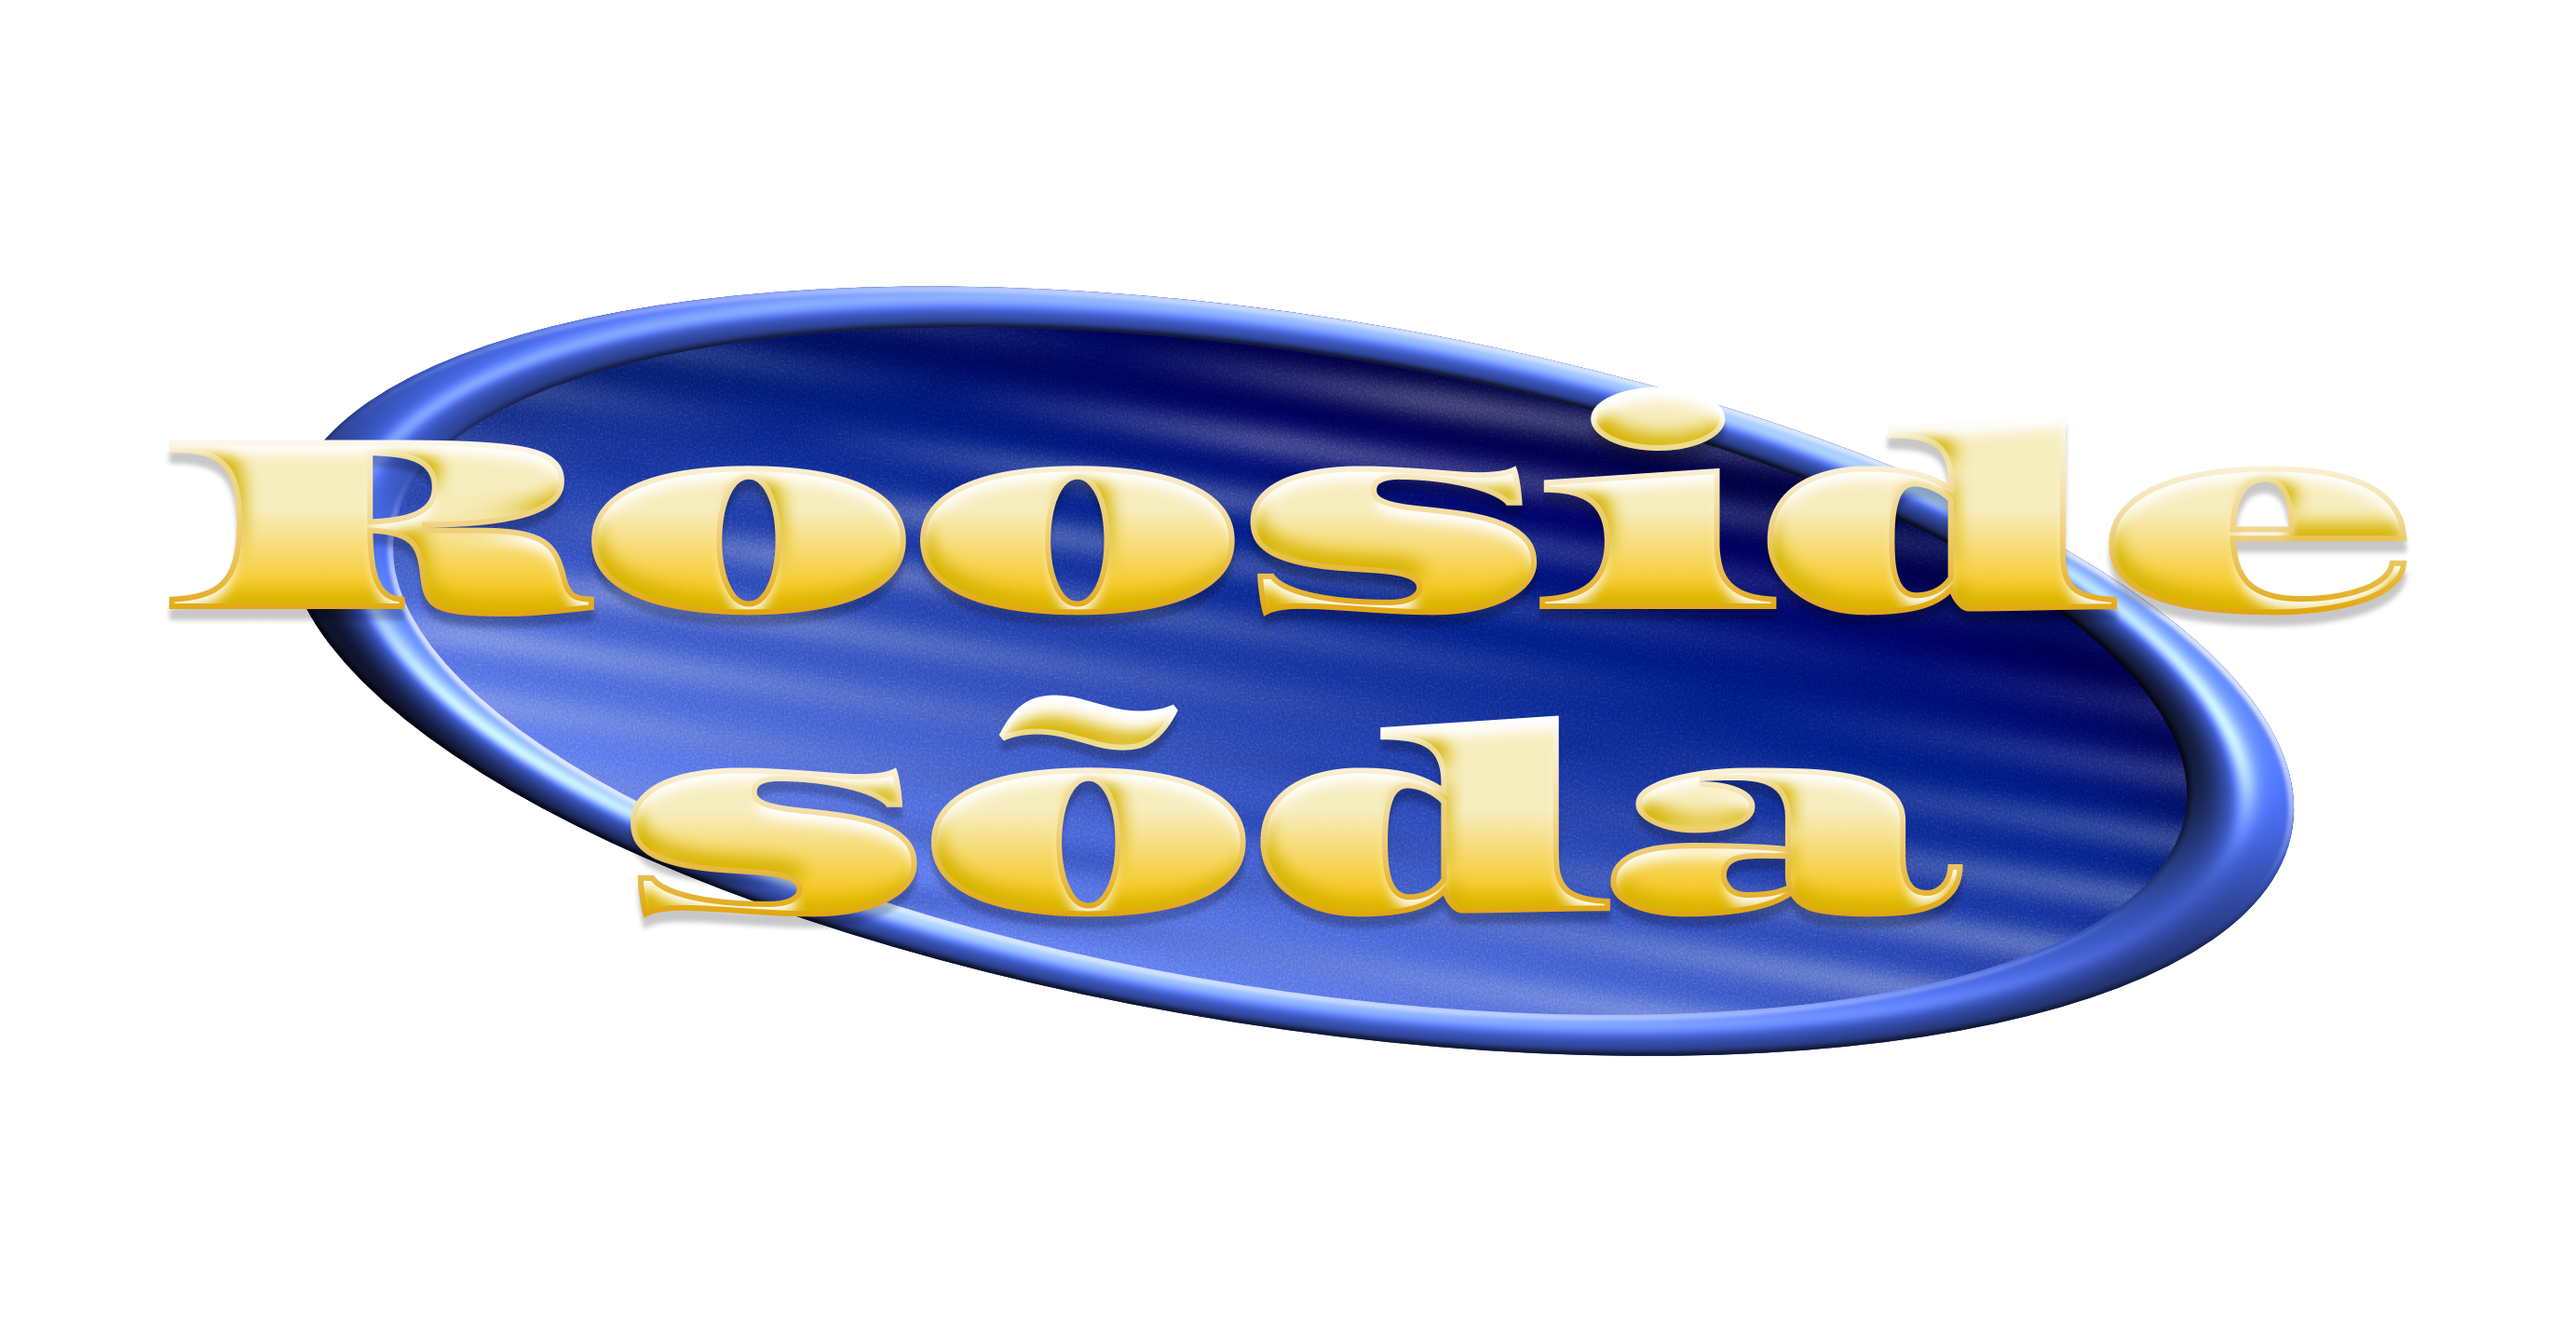
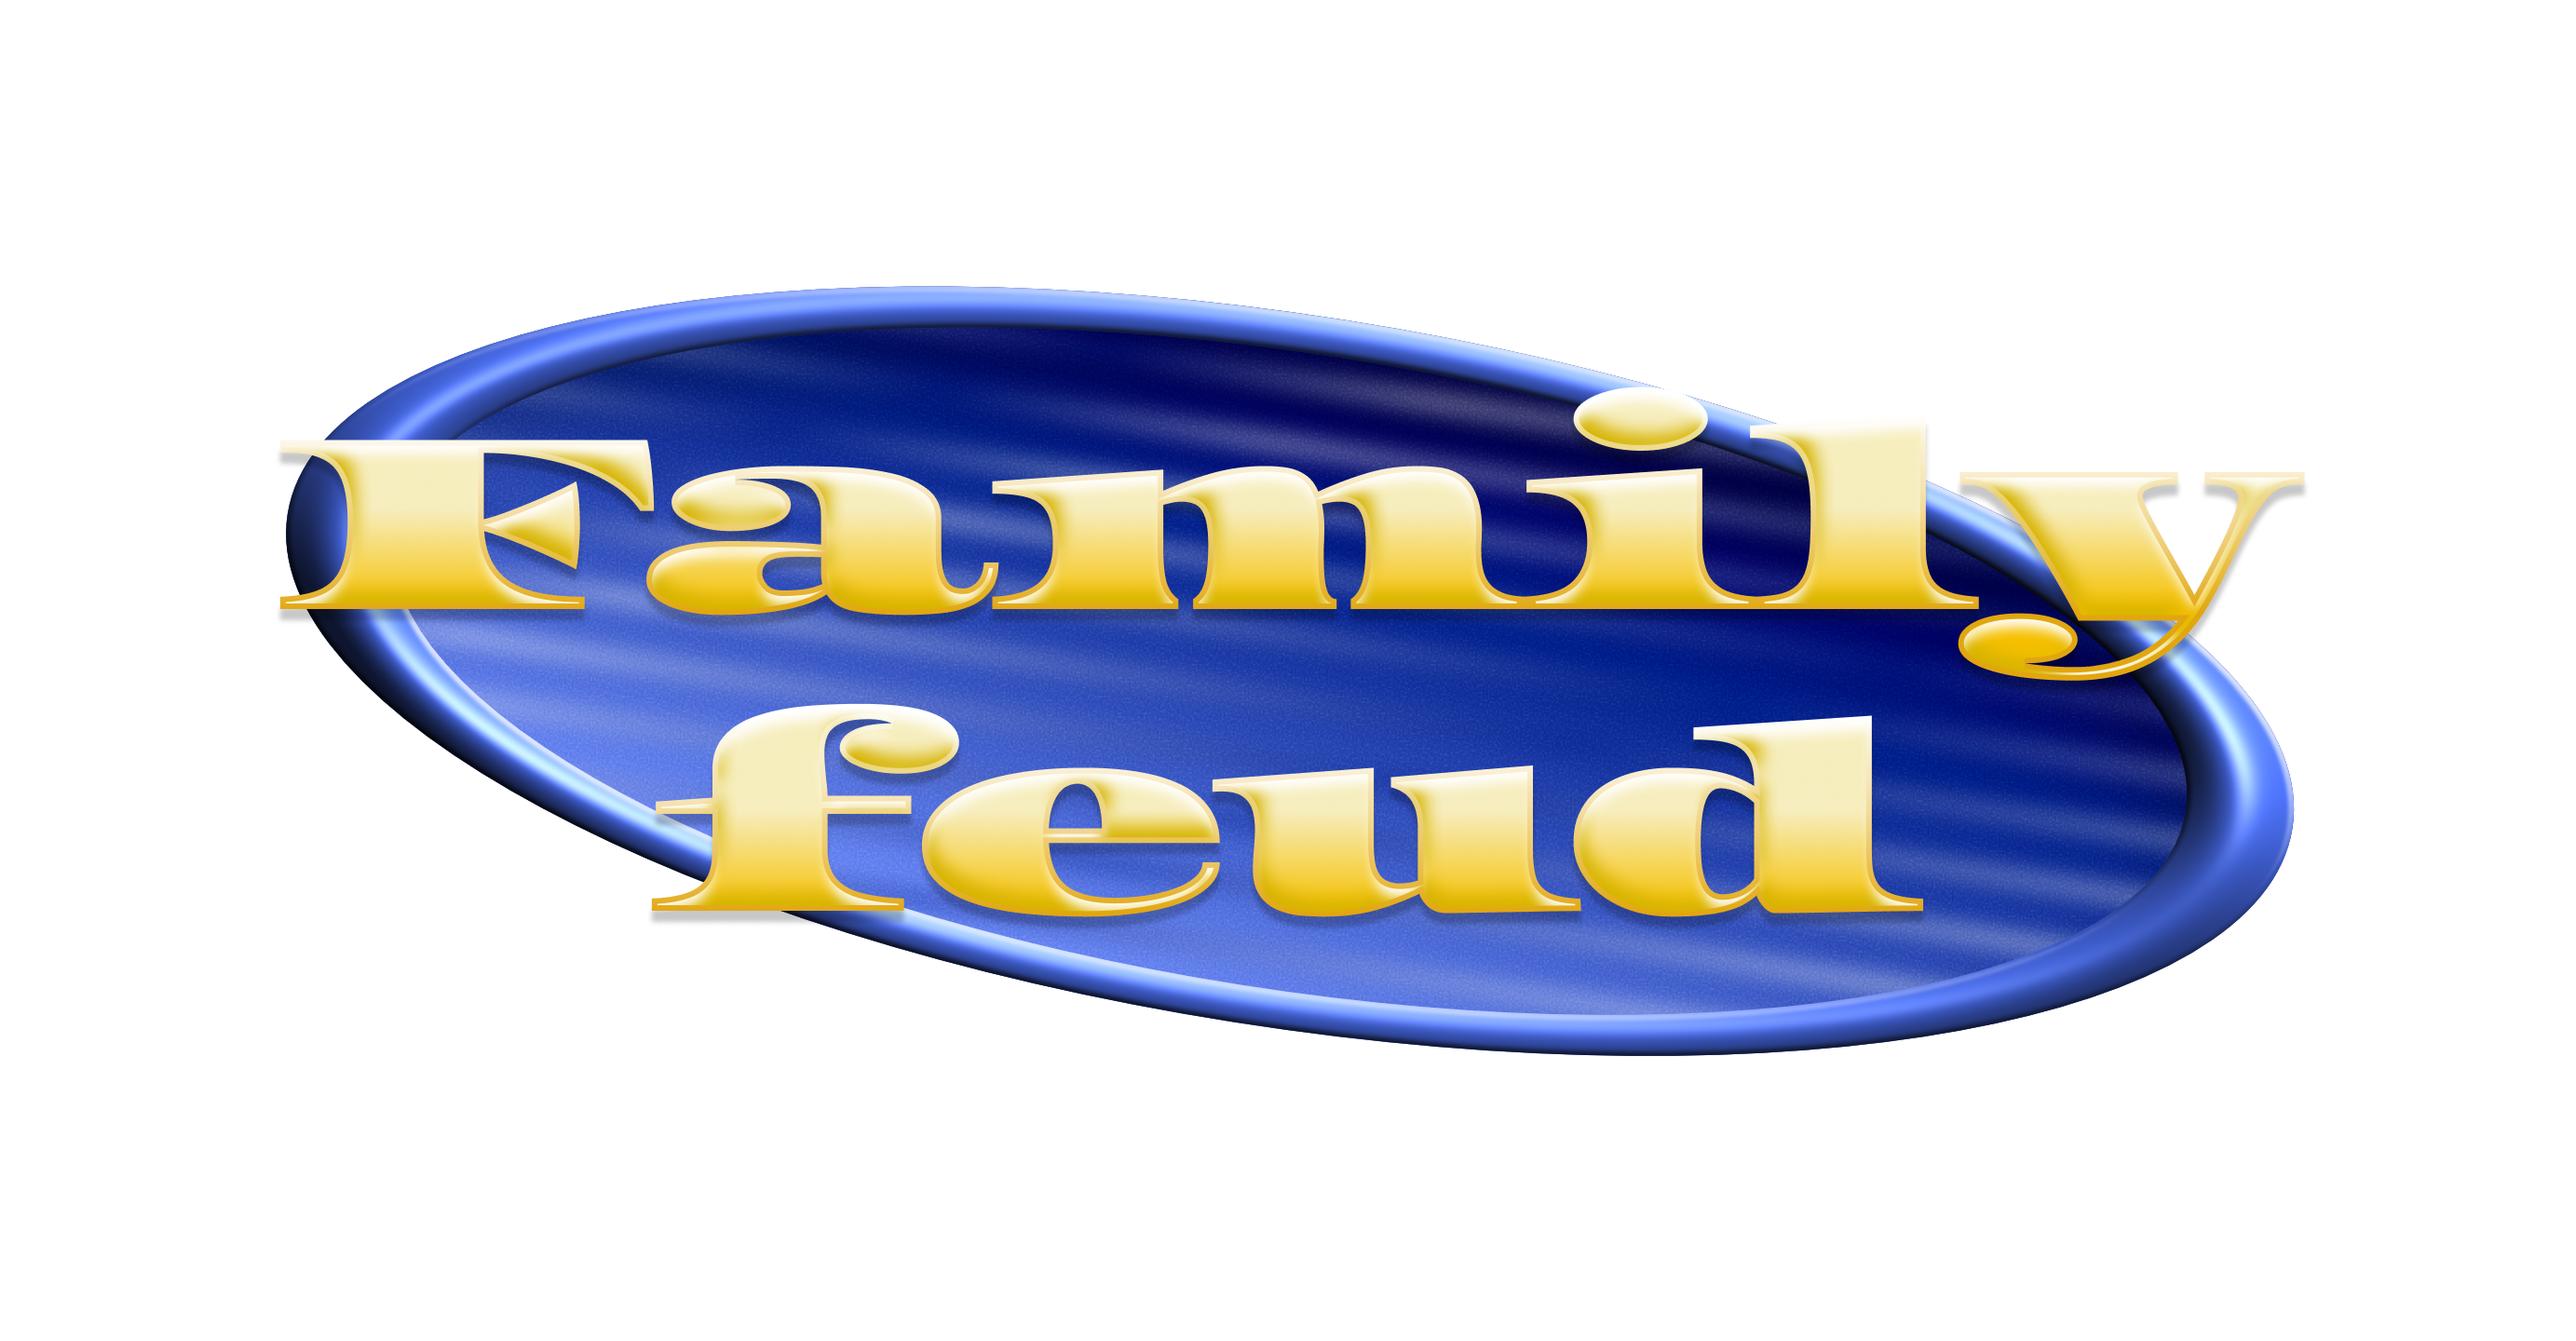
updated title card and translations to english

Changed region(s): [[0.0622, 0.2812, 0.9328, 0.5312], [0.2176, 0.5, 0.7773, 0.6875]]

diff --git a/public/script.js b/public/script.js
@@ -90,9 +90,9 @@ function renderAudienceView(gameState) {
 function renderStartScreen(gameState) {
     return `
         <div class="start-screen">
-            <div class="title-secondary">Rihhardo-Tenrec Tulbilahing™ esitleb:</div>
+            <div class="title-secondary">Rihhardo-Tenrec Tulbilahing™ presents:</div>
             <div class="presentation">
-                <img src="/images/title_@3x.png" alt="Rooside sõda" class="title-image pop-animation" style="height: auto; max-height: 64vh; width: auto; max-width: 100%;">
+                <img src="/images/title_@3x.png" alt="Family Feud" class="title-image pop-animation" style="height: auto; max-height: 64vh; width: auto; max-width: 100%;">
             </div>
             <div class="title-secondary">©2024 • Kratt & Näkk productions</div>
         </div>
@@ -199,7 +199,7 @@ function renderGameOverScreen(gameState) {
     
     return `
         <div class="start-screen">
-            <div class="title-secondary">${isDraw ? 'Pask, keegi ei võitnud!' : 'Võitja on:'}</div>
+            <div class="title-secondary">${isDraw ? 'Draw!' : 'The winner is:'}</div>
             <div class="presentation">
                 <div class="title-primary pop-animation">
                     ${isDraw ? "Viik!" : `${gameState.teamNames[winner]}!`}
